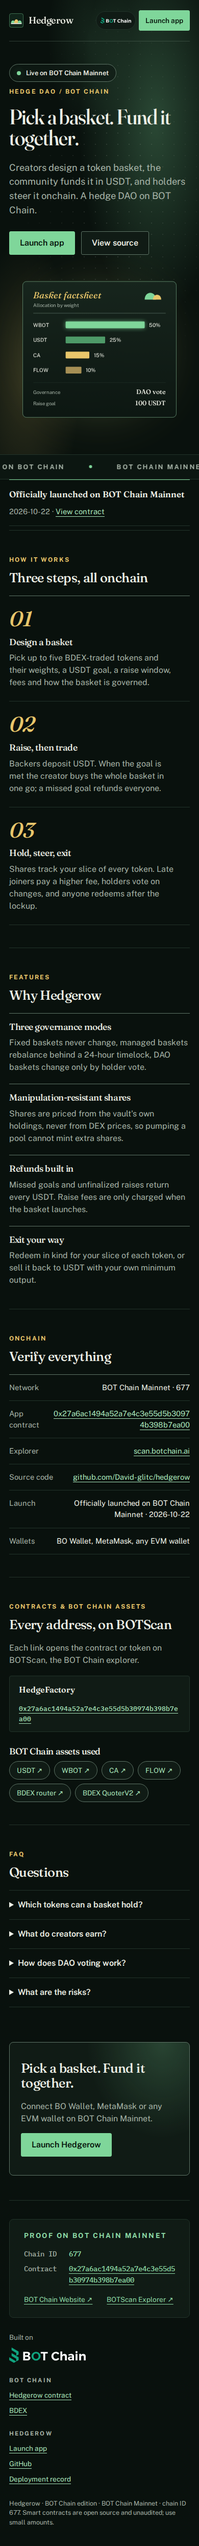
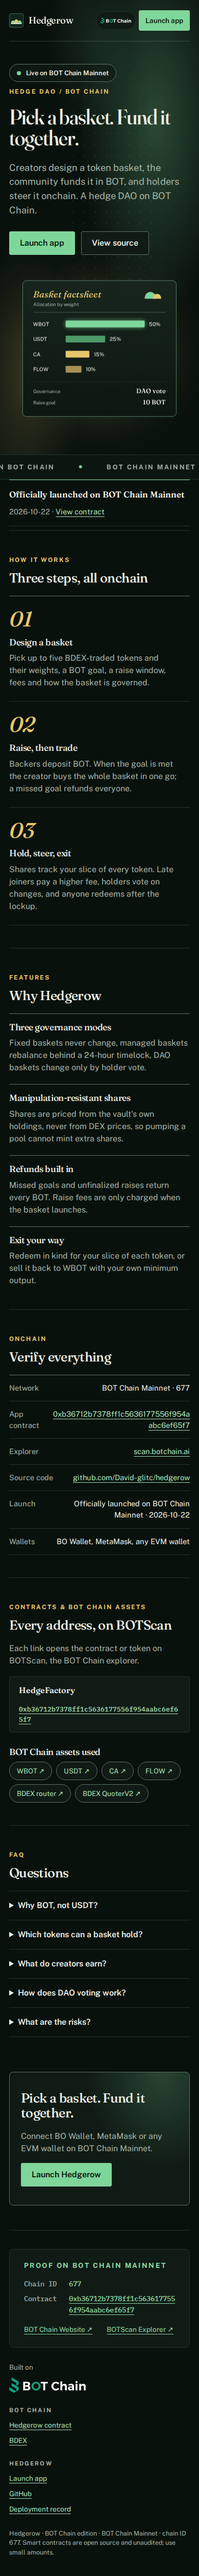
Fund baskets in BOT: WBOT cash token, 18-decimal shares, app wraps native BOT

Changed region(s): [[0.0308, 0.0, 0.9538, 0.9968], [0.8615, 0.6541, 0.8923, 0.6853]]

diff --git a/web/products/hedgerow.js b/web/products/hedgerow.js
@@ -1,6 +1,7 @@
 import {parseAbi,encodePacked} from 'viem';
-import {$,config,state,client,esc,fmt,link,short,button,field,form,details,amount,read,tx,approve,mine,wallet,connect,asset,start} from '../core.js';
-const ZERO='0x0000000000000000000000000000000000000000',USDT=config.infrastructure.USDT;
+import {$,config,state,client,esc,fmt,link,short,button,field,form,details,amount,read,tx,transact,approve,mine,wallet,connect,asset,status,tokenAbi,wrapForms,start} from '../core.js';
+// Baskets are funded in WBOT (18 decimals); shares carry the same decimals. The app wraps native BOT as needed.
+const ZERO='0x0000000000000000000000000000000000000000',CASH=config.infrastructure.WBOT,CD=18;
 const quoterAbi=parseAbi(['function quoteExactInput(bytes path,uint256 amountIn) returns(uint256 amountOut,uint160[],uint32[],uint256)']);
 const symAbi=parseAbi(['function symbol() view returns(string)','function decimals() view returns(uint8)']);
 const MODES=['Fixed','Managed','DAO'],PHASES=['Raising','Active','Refunding'];
@@ -10,9 +11,9 @@ async function tokenMeta(a){const k=a.toLowerCase();if(known[k])return known[k];
  try{const [symbol,decimals]=await Promise.all([client.readContract({address:a,abi:symAbi,functionName:'symbol'}),client.readContract({address:a,abi:symAbi,functionName:'decimals'})]);meta[k]={symbol,decimals};}catch{meta[k]={symbol:short(a),decimals:18};}return meta[k];}
 const trim=v=>{const [a,b='']=v.split('.');return b?`${a}.${b.slice(0,6).replace(/0+$/,'')||'0'}`.replace(/\.$/,''):a;};
 const pct=bps=>`${(Number(bps)/100).toFixed(Number(bps)%100?2:0)}%`;
-const isCash=a=>a.toLowerCase()===USDT.toLowerCase();
+const isCash=a=>a.toLowerCase()===CASH.toLowerCase();
 const path=(c,sell)=>{const p=c.mid===ZERO?[[c.token],[c.fee1]]:[[c.mid,c.token],[c.fee1,c.fee2]];
- const hops=[USDT,...p[0]],fees=p[1];if(sell){hops.reverse();fees.reverse();}
+ const hops=[CASH,...p[0]],fees=p[1];if(sell){hops.reverse();fees.reverse();}
  const types=[],values=[];hops.forEach((h,n)=>{types.push('address');values.push(h);if(n<fees.length){types.push('uint24');values.push(fees[n]);}});return encodePacked(types,values);};
 async function quote(c,n,sell=false){if(isCash(c.token)||n===0n)return 0n;const {result}=await client.simulateContract({address:config.infrastructure.quoter,abi:quoterAbi,functionName:'quoteExactInput',args:[path(c,sell),n]});return result[0];}
 function slippage(v){if(!/^\d+(\.\d{1,2})?$/.test(v)||Number(v)<0.1||Number(v)>10)throw Error('Use a slippage between 0.1% and 10%.');return BigInt(Math.round(Number(v)*100));}
@@ -23,9 +24,12 @@ let chainNow=Math.floor(Date.now()/1000);
 async function syncClock(){chainNow=Number((await client.getBlock()).timestamp);return chainNow;}
 const deadline=()=>BigInt(chainNow+900);
 const vaultTx=(addr,fn,args=[])=>tx('HedgeVault',fn,args,0n,addr);
+/** Ensure the wallet holds `n` WBOT for `spender`: wraps any shortfall from native BOT, then approves. */
+async function fundCash(spender,n){await wallet();const bal=await client.readContract({address:CASH,abi:tokenAbi,functionName:'balanceOf',args:[state.account]});
+ if(bal<n){status('Wrapping BOT to WBOT…');await transact(tokenAbi,CASH,'deposit',[],n-bal);}await approve(CASH,spender,n);}
 const vread=(addr,fn,args=[])=>read('HedgeVault',fn,args,addr);
-// 50/15/10 across the first three non-cash tokens and 25% cash, whatever this network lists.
-function defaultWeights(){const w={},split=[50,15,10];let n=0;for(const t of config.tokens)w[t.symbol]=t.cash?25:(split[n++]??0);return w;}
+// 50% cash (WBOT), then 25/15/10 across the first three other tokens, whatever this network lists.
+function defaultWeights(){const w={},split=[25,15,10];let n=0;for(const t of config.tokens)w[t.symbol]=t.cash?50:(split[n++]??0);return w;}
 function weightFields(prefix,defaults={}){return '<fieldset class="weights"><legend>Basket weights (%) · must total 100</legend><div class="weight-grid">'+config.tokens.map(t=>`<div>${field(`${prefix}-w-${t.symbol}`,`${t.symbol}${t.cash?' · cash':''}`,String(defaults[t.symbol]??0),'text','inputmode="decimal"')}</div>`).join('')+`</div><div class="alloc" id="${prefix}-bar" aria-hidden="true"></div><p class="tiny" id="${prefix}-total" aria-live="polite"></p></fieldset>`;}
 function basketFrom(f,prefix){const comps=[];let total=0;
  for(const t of config.tokens){const raw=f[`${prefix}-w-${t.symbol}`]||'0';if(!/^\d+(\.\d{1,2})?$/.test(raw))throw Error(`Use a number for the ${t.symbol} weight.`);const bps=Math.round(Number(raw)*100);if(!bps)continue;if(bps<500)throw Error(`${t.symbol}: each token needs at least 5%.`);total+=bps;comps.push({token:t.address,weightBps:bps,mid:t.mid||ZERO,fee1:t.fee1||0,fee2:t.fee2||0});}
@@ -35,16 +39,16 @@ function watchTotal(formId,prefix){const f=document.querySelector(`[data-form="$
 
 function controls(){
  $('list-title').textContent='Baskets';
- $('controls').innerHTML='<h2>Design a basket</h2><p>Pick up to five tokens and weights. Backers fund it in USDT; if the goal is missed, everyone refunds.</p>'+form('create',`<div class="two"><div>${field('name','Basket name','BOT Chain Core','text','maxlength="48"')}</div><div>${field('symbol','Share symbol','CORE','text','maxlength="12"')}</div></div>`+weightFields('c',defaultWeights())
+ $('controls').innerHTML='<h2>Design a basket</h2><p>Pick up to five tokens and weights. Backers fund it in BOT; if the goal is missed, everyone refunds.</p>'+form('create',`<div class="two"><div>${field('name','Basket name','BOT Chain Core','text','maxlength="48"')}</div><div>${field('symbol','Share symbol','CORE','text','maxlength="12"')}</div></div>`+weightFields('c',defaultWeights())
   +`<label for="mode">Governance</label><select id="mode" name="mode"><option value="2">DAO — holders vote on changes</option><option value="1">Managed — you rebalance after a 24h timelock</option><option value="0">Fixed — the basket never changes</option></select>`
-  +field('goal','Raise goal (USDT)','100','text','inputmode="decimal"')+`<div class="two"><div>${field('days','Raise window (days)','7','number','min="1" max="30"')}</div><div>${field('lockup','Lockup (days)','7','number','min="0" max="90"')}</div></div><div class="two"><div>${field('raise-fee','Raise fee (%, ≤ 2)','0.5','text','inputmode="decimal"')}</div><div>${field('late-fee','Late fee (%, ≤ 5)','2','text','inputmode="decimal"')}</div></div>`,'Create basket',async f=>{
+  +field('goal','Raise goal (BOT)','10','text','inputmode="decimal"')+`<div class="two"><div>${field('days','Raise window (days)','7','number','min="1" max="30"')}</div><div>${field('lockup','Lockup (days)','7','number','min="0" max="90"')}</div></div><div class="two"><div>${field('raise-fee','Raise fee (%, ≤ 2)','0.5','text','inputmode="decimal"')}</div><div>${field('late-fee','Late fee (%, ≤ 5)','2','text','inputmode="decimal"')}</div></div>`,'Create basket',async f=>{
    const comps=basketFrom(f,'c'),bps=v=>{if(!/^\d+(\.\d{1,2})?$/.test(v))throw Error('Fees must be percentages.');return Math.round(Number(v)*100);};
    const days=Number(f.days),lock=Number(f.lockup);if(!(days>=1&&days<=30))throw Error('Raise window must be 1–30 days.');if(!(lock>=0&&lock<=90))throw Error('Lockup must be 0–90 days.');
    const raiseFee=bps(f['raise-fee']),lateFee=bps(f['late-fee']);if(raiseFee>200||lateFee>500||lateFee<raiseFee)throw Error('Raise fee ≤ 2%, late fee ≤ 5% and at least the raise fee.');
-   await wallet();await tx('HedgeFactory','createVault',[{creator:state.account,name:f.name.trim(),symbol:f.symbol.trim().toUpperCase(),mode:Number(f.mode),goal:amount(f.goal,6),raiseEnd:BigInt(await syncClock()+days*86400),lockup:BigInt(lock*86400),raiseFeeBps:raiseFee,lateFeeBps:lateFee,components:comps}]);
-  })+'<p class="tiny">Tokens listed have live BDEX routes from USDT. CA routes through WBOT. Thin pools move on large trades: check quotes before you finalize.</p>';
+   await wallet();await tx('HedgeFactory','createVault',[{creator:state.account,name:f.name.trim(),symbol:f.symbol.trim().toUpperCase(),mode:Number(f.mode),goal:amount(f.goal,CD),raiseEnd:BigInt(await syncClock()+days*86400),lockup:BigInt(lock*86400),raiseFeeBps:raiseFee,lateFeeBps:lateFee,components:comps}]);
+  })+'<p class="tiny">Tokens listed have live BDEX routes from WBOT. FLOW routes through USDT. Thin pools move on large trades: check quotes before you finalize.</p>'+wrapForms();
  watchTotal('create','c');
- $('rules').innerHTML='<ul><li>Backers deposit USDT during the raise. If the goal is missed, or the creator does not finalize within 3 days after the raise ends, everyone refunds in full.</li><li>When the creator finalizes, the raise fee goes to the creator and the rest buys the basket at its weights through BDEX.</li><li>After launch anyone can join at the late-entry fee. Shares are minted from the smallest relative increase in any holding, so pool manipulation cannot mint extra shares.</li><li>After the lockup, redeem in kind or sell your slice back to USDT with a minimum output.</li><li>Managed baskets change after a 24h timelock; DAO baskets need a majority and 20% of all shares voting for. The creator executes approved changes and sets the minimum outputs.</li><li>Contracts are unaudited. Basket tokens can lose value.</li></ul>';
+ $('rules').innerHTML='<ul><li>Backers deposit BOT during the raise; the app wraps it to WBOT for you. If the goal is missed, or the creator does not finalize within 3 days after the raise ends, everyone refunds in full.</li><li>When the creator finalizes, the raise fee goes to the creator and the rest buys the basket at its weights through BDEX.</li><li>After launch anyone can join at the late-entry fee. Shares are minted from the smallest relative increase in any holding, so pool manipulation cannot mint extra shares.</li><li>After the lockup, redeem in kind or sell your slice back to WBOT with a minimum output, then unwrap to BOT.</li><li>Managed baskets change after a 24h timelock; DAO baskets need a majority and 20% of all shares voting for. The creator executes approved changes and sets the minimum outputs.</li><li>Contracts are unaudited. Basket tokens can lose value.</li></ul>';
 }
 
 async function card(id){
@@ -56,8 +60,8 @@ async function card(id){
  tally.count++;if(shownPhase===0)tally.raising++;if(shownPhase===1)tally.live++;tally.raised+=raised;
  let html=`<article class="sheet"><div class="sheet-head"><div><h3>${esc(name)}</h3><span class="tiny">${esc(symbol)} · by ${link(creator)} · ${link(addr,'vault')}</span></div><div class="badges"><span class="badge${shownPhase===1?' live':''}">${PHASES[shownPhase]}</span><span class="badge">${MODES[mode]}</span></div></div>`;
  html+=`<div class="alloc" aria-hidden="true">${comps.map(c=>`<i style="flex:${c.weightBps}"></i>`).join('')}</div><ul class="legend" aria-label="Allocation">${comps.map((c,n)=>`<li>${asset(metas[n].symbol,c.token)} <b>${pct(c.weightBps)}</b></li>`).join('')}</ul>`;
- const figs=phase===0?[['Raised',`${trim(fmt(raised,6))} USDT`],['Goal',`${trim(fmt(goal,6))} USDT`],['Raise ends',when(raiseEnd)],['Fees',`${pct(raiseFee)} raise · ${pct(lateFee)} late`]]
-  :[['Shares',trim(fmt(supply,6))],['Late-entry fee',pct(lateFee)],['Redeem',Number(lockupEnd)>now?`from ${when(lockupEnd)}`:'Open now'],['Raised',`${trim(fmt(raised,6))} USDT`]];
+ const figs=phase===0?[['Raised',`${trim(fmt(raised,CD))} BOT`],['Goal',`${trim(fmt(goal,CD))} BOT`],['Raise ends',when(raiseEnd)],['Fees',`${pct(raiseFee)} raise · ${pct(lateFee)} late`]]
+  :[['Shares',trim(fmt(supply,CD))],['Late-entry fee',pct(lateFee)],['Redeem',Number(lockupEnd)>now?`from ${when(lockupEnd)}`:'Open now'],['Raised',`${trim(fmt(raised,CD))} BOT`]];
  html+=`<dl class="figs">${figs.map(([k,v])=>`<div><dt>${k}</dt><dd>${v}</dd></div>`).join('')}</dl>`;
  if(phase===0)html+=`<div class="meter" role="progressbar" aria-label="Raise progress" aria-valuemin="0" aria-valuemax="100" aria-valuenow="${pctRaised}"><i style="width:${pctRaised}%"></i></div><p class="tiny">${pctRaised}% of goal${refundable?' · goal missed: backers can refund':''}</p>`;
  if(phase===1){const hm=await Promise.all(holdings[0].map(tokenMeta));html+='<h4 class="sub">Holdings</h4><div class="holdings">'+holdings[0].map((t,n)=>`<div class="row"><span>${asset(hm[n].symbol,t)}</span><strong class="mono">${trim(fmt(holdings[1][n],hm[n].decimals))}</strong></div>`).join('')+'</div>';}
@@ -65,18 +69,18 @@ async function card(id){
  if(!state.account&&(phase===1||(phase===0&&!refundable&&now<Number(raiseEnd))))html+=`<div class="actions">${button(phase===0?'Connect to back this basket':'Connect to join this basket',connect,true)}</div>`;
  if(state.account){
   const [dep,claim,shares,votes]=await Promise.all([vread(addr,'deposits',[state.account]),vread(addr,'claimable',[state.account]),vread(addr,'balanceOf',[state.account]),vread(addr,'getVotes',[state.account])]);
-  if(dep>0n||shares>0n)html+=`<p class="you">You: ${dep>0n?`${trim(fmt(dep,6))} USDT deposited`:''}${dep>0n&&shares>0n?' · ':''}${shares>0n?`${trim(fmt(shares,6))} shares (${supply>0n?(Number(shares*10000n/supply)/100).toFixed(2):0}%) · ${trim(fmt(votes,6))} votes`:''}</p>`;
+  if(dep>0n||shares>0n)html+=`<p class="you">You: ${dep>0n?`${trim(fmt(dep,CD))} BOT deposited`:''}${dep>0n&&shares>0n?' · ':''}${shares>0n?`${trim(fmt(shares,CD))} shares (${supply>0n?(Number(shares*10000n/supply)/100).toFixed(2):0}%) · ${trim(fmt(votes,CD))} votes`:''}</p>`;
   const acts=[];
-  if(phase===0&&!refundable&&now<Number(raiseEnd))html+=details('Back this basket',form(`${f}-dep`,field(`${f}-dep-amt`,'Deposit (USDT)','10','text','inputmode="decimal"'),'Approve & deposit',async x=>{const n=amount(x[`${f}-dep-amt`],6);await approve(USDT,addr,n);await vaultTx(addr,'deposit',[n]);}));
-  if(refundable&&dep>0n)acts.push(button(`Refund ${trim(fmt(dep,6))} USDT`,()=>vaultTx(addr,'refund'),true));
+  if(phase===0&&!refundable&&now<Number(raiseEnd))html+=details('Back this basket',form(`${f}-dep`,field(`${f}-dep-amt`,'Deposit (BOT)','1','text','inputmode="decimal"'),'Deposit BOT',async x=>{const n=amount(x[`${f}-dep-amt`],CD);await fundCash(addr,n);await vaultTx(addr,'deposit',[n]);}));
+  if(refundable&&dep>0n)acts.push(button(`Refund ${trim(fmt(dep,CD))} WBOT`,()=>vaultTx(addr,'refund'),true));
   if(phase===0&&own&&raised>=goal&&!refundable)html+=details('Finalize: buy the basket',form(`${f}-fin`,slipField('fin'),'Finalize raise',async x=>{const net=raised-raised*BigInt(raiseFee)/10000n;await syncClock();await vaultTx(addr,'finalize',[await buyMins(comps,net,slippage(x[`${f}-fin-slip`])),deadline()]);}));
-  if(claim>0n)acts.push(button(`Claim ${trim(fmt(claim,6))} shares`,()=>vaultTx(addr,'claimShares'),true));
-  if(phase===1)html+=details(`Join at the ${pct(lateFee)} late fee`,form(`${f}-join`,field(`${f}-join-amt`,'Join with (USDT)','10','text','inputmode="decimal"')+slipField('join'),'Approve & join',async x=>{const n=amount(x[`${f}-join-amt`],6);const mins=await buyMins(comps,n-n*BigInt(lateFee)/10000n,slippage(x[`${f}-join-slip`]));await approve(USDT,addr,n);await syncClock();await vaultTx(addr,'join',[n,mins,deadline()]);}));
+  if(claim>0n)acts.push(button(`Claim ${trim(fmt(claim,CD))} shares`,()=>vaultTx(addr,'claimShares'),true));
+  if(phase===1)html+=details(`Join at the ${pct(lateFee)} late fee`,form(`${f}-join`,field(`${f}-join-amt`,'Join with (BOT)','1','text','inputmode="decimal"')+slipField('join'),'Join with BOT',async x=>{const n=amount(x[`${f}-join-amt`],CD);const mins=await buyMins(comps,n-n*BigInt(lateFee)/10000n,slippage(x[`${f}-join-slip`]));await fundCash(addr,n);await syncClock();await vaultTx(addr,'join',[n,mins,deadline()]);}));
   if(canRedeem&&shares>0n){
-   html+=details('Redeem',form(`${f}-red`,field(`${f}-red-amt`,'Shares',trim(fmt(shares,6)),'text','inputmode="decimal"'),'Redeem in kind',async x=>vaultTx(addr,'redeem',[amount(x[`${f}-red-amt`],6)]))
-    +form(`${f}-redu`,field(`${f}-redu-amt`,'Shares',trim(fmt(shares,6)),'text','inputmode="decimal"')+slipField('redu'),'Sell slice for USDT',async x=>{const s=amount(x[`${f}-redu-amt`],6),slip=slippage(x[`${f}-redu-slip`]);let total=0n;
+   html+=details('Redeem',form(`${f}-red`,field(`${f}-red-amt`,'Shares',trim(fmt(shares,CD)),'text','inputmode="decimal"'),'Redeem in kind',async x=>vaultTx(addr,'redeem',[amount(x[`${f}-red-amt`],CD)]))
+    +form(`${f}-redu`,field(`${f}-redu-amt`,'Shares',trim(fmt(shares,CD)),'text','inputmode="decimal"')+slipField('redu'),'Sell slice for WBOT',async x=>{const s=amount(x[`${f}-redu-amt`],CD),slip=slippage(x[`${f}-redu-slip`]);let total=0n;
      const mins=await Promise.all(comps.map(async(c,n)=>{const part=holdings[1][n]*s/supply;if(isCash(c.token)){total+=part;return 0n;}const q=floor(await quote(c,part,true),slip);total+=q;return q>0n?q:1n;}));
-     if(holdings[0].length>comps.length)total+=holdings[1][comps.length]*s/supply;await syncClock();await vaultTx(addr,'redeemToUSDT',[s,mins,total,deadline()]);}));
+     if(holdings[0].length>comps.length)total+=holdings[1][comps.length]*s/supply;await syncClock();await vaultTx(addr,'redeemToCash',[s,mins,total,deadline()]);}));
   }
   if(phase===1&&mode>0&&(own||(mode===2&&votes*100n>=supply))&&(mode===2||Number(lockupEnd)<=now))html+=details(mode===2?'Propose a new basket':'Schedule a rebalance',form(`${f}-prop`,weightFields(`${f}p`),mode===2?'Submit proposal':'Schedule (24h timelock)',async x=>vaultTx(addr,'propose',[basketFrom(x,`${f}p`)])));
   if(acts.length)html+=`<div class="actions">${acts.join('')}</div>`;
@@ -85,7 +89,7 @@ async function card(id){
   for(let p=Number(count)-1;p>=Math.max(0,Number(count)-5);p--){const [[pr,next],ok,voted]=await Promise.all([vread(addr,'proposal',[BigInt(p)]),vread(addr,'passed',[BigInt(p)]),state.account?vread(addr,'hasVoted',[BigInt(p),state.account]):false]);
    const nm=await Promise.all(next.map(c=>tokenMeta(c.token))),open=now<Number(pr.end);
    html+=`<div class="item"><div class="row"><span>#${p} · ${next.map((c,n)=>`${asset(nm[n].symbol,c.token)} ${pct(c.weightBps)}`).join(' · ')}</span><strong>${pr.executed?'Executed':open?(mode===2?'Voting':'Timelocked'):ok?'Ready':'Closed'}</strong></div>`;
-   if(mode===2)html+=`<p class="tiny">For ${trim(fmt(pr.forVotes,6))} · Against ${trim(fmt(pr.againstVotes,6))} · Quorum ${trim(fmt(pr.quorumBase*2000n/10000n,6))} · ${open?`ends ${new Date(Number(pr.end)*1000).toLocaleString()}`:'ended'}</p>`;
+   if(mode===2)html+=`<p class="tiny">For ${trim(fmt(pr.forVotes,CD))} · Against ${trim(fmt(pr.againstVotes,CD))} · Quorum ${trim(fmt(pr.quorumBase*2000n/10000n,CD))} · ${open?`ends ${new Date(Number(pr.end)*1000).toLocaleString()}`:'ended'}</p>`;
    const pa=[];if(mode===2&&open&&state.account&&!voted)pa.push(button('Vote for',()=>vaultTx(addr,'vote',[BigInt(p),true]),true),button('Vote against',()=>vaultTx(addr,'vote',[BigInt(p),false])));
    if(ok&&own)html+=details('Execute this change',form(`${f}-ex${p}`,slipField(`ex${p}`),'Rebalance now',async x=>{const slip=slippage(x[`${f}-ex${p}-slip`]);let cash=holdings[0].length>comps.length?holdings[1][comps.length]:0n;
     const sells=await Promise.all(comps.map(async(c,n)=>{if(isCash(c.token)){cash+=holdings[1][n];return 0n;}const q=floor(await quote(c,holdings[1][n],true),slip);cash+=q;return q>0n?q:1n;}));
@@ -102,5 +106,5 @@ async function render(){
  setTimeout(()=>{for(let id=count-1;id>=Math.max(0,count-12);id--)watchTotal(`v${id}-prop`,`v${id}p`);},0);
  return html||'<p class="empty">No baskets yet. Design the first one.</p>';
 }
-function stats(empty){return [['Baskets',empty?'—':String(tally.count)],['Raising',empty?'—':String(tally.raising)],['Raised',empty?'—':`$${Number(fmt(tally.raised,6)).toLocaleString(undefined,{maximumFractionDigits:2})}`]];}
+function stats(empty){return [['Baskets',empty?'—':String(tally.count)],['Raising',empty?'—':String(tally.raising)],['Raised',empty?'—':`${Number(fmt(tally.raised,CD)).toLocaleString(undefined,{maximumFractionDigits:4})} BOT`]];}
 start({controls,render,stats});

diff --git a/README.md b/README.md
@@ -1,6 +1,6 @@
 # Hedgerow
 
-**Pick a basket. Fund it together.** Creators design a token basket, the community funds it in USDT, and holders steer it onchain. A hedge DAO on BOT Chain.
+**Pick a basket. Fund it together.** Creators design a token basket, the community funds it in BOT, and holders steer it onchain. A hedge DAO on BOT Chain.
 
 **Officially launched on BOT Chain Mainnet** on 2026-10-22.
 
@@ -11,22 +11,22 @@
 
 ## How it works
 
-1. **Design a basket.** Pick up to five BDEX-traded tokens and their weights, a USDT goal, a raise window, fees and how the basket is governed.
-2. **Raise, then trade.** Backers deposit USDT. When the goal is met the creator buys the whole basket in one go; a missed goal refunds everyone.
+1. **Design a basket.** Pick up to five BDEX-traded tokens and their weights, a BOT goal, a raise window, fees and how the basket is governed.
+2. **Raise, then trade.** Backers deposit BOT. When the goal is met the creator buys the whole basket in one go; a missed goal refunds everyone.
 3. **Hold, steer, exit.** Shares track your slice of every token. Late joiners pay a higher fee, holders vote on changes, and anyone redeems after the lockup.
 
 ## Features
 
 - **Three governance modes.** Fixed baskets never change, managed baskets rebalance behind a 24-hour timelock, DAO baskets change only by holder vote.
 - **Manipulation-resistant shares.** Shares are priced from the vault's own holdings, never from DEX prices, so pumping a pool cannot mint extra shares.
-- **Refunds built in.** Missed goals and unfinalized raises return every USDT. Raise fees are only charged when the basket launches.
-- **Exit your way.** Redeem in kind for your slice of each token, or sell it back to USDT with your own minimum output.
+- **Refunds built in.** Missed goals and unfinalized raises return every BOT. Raise fees are only charged when the basket launches.
+- **Exit your way.** Redeem in kind for your slice of each token, or sell it back to WBOT with your own minimum output.
 
 ## Contracts
 
 | Contract | BOT Chain mainnet |
 |---|---|
-| `HedgeFactory` | [`0x27a6ac1494a52a7e4c3e55d5b30974b398b7ea00`](https://scan.botchain.ai/address/0x27a6ac1494a52a7e4c3e55d5b30974b398b7ea00) |
+| `HedgeFactory` | [`0xb36712b7378ff1c5636177556f954aabc6ef65f7`](https://scan.botchain.ai/address/0xb36712b7378ff1c5636177556f954aabc6ef65f7) |
 
 BOT Chain infrastructure used: USDT `0xaBabc7Ddc03e501d190C676BF3d92ef0e6e87a3C`, WBOT `0xD5452816194a3784dBa983426cCe7c122F4abd30`, BDEX router `0x07032d47A1b9f8460cBeE9dC17c1d3E438693929`, BDEX QuoterV2 `0x034A705b36067cff99ABf5C662Be881cBd8d0176`.
 
